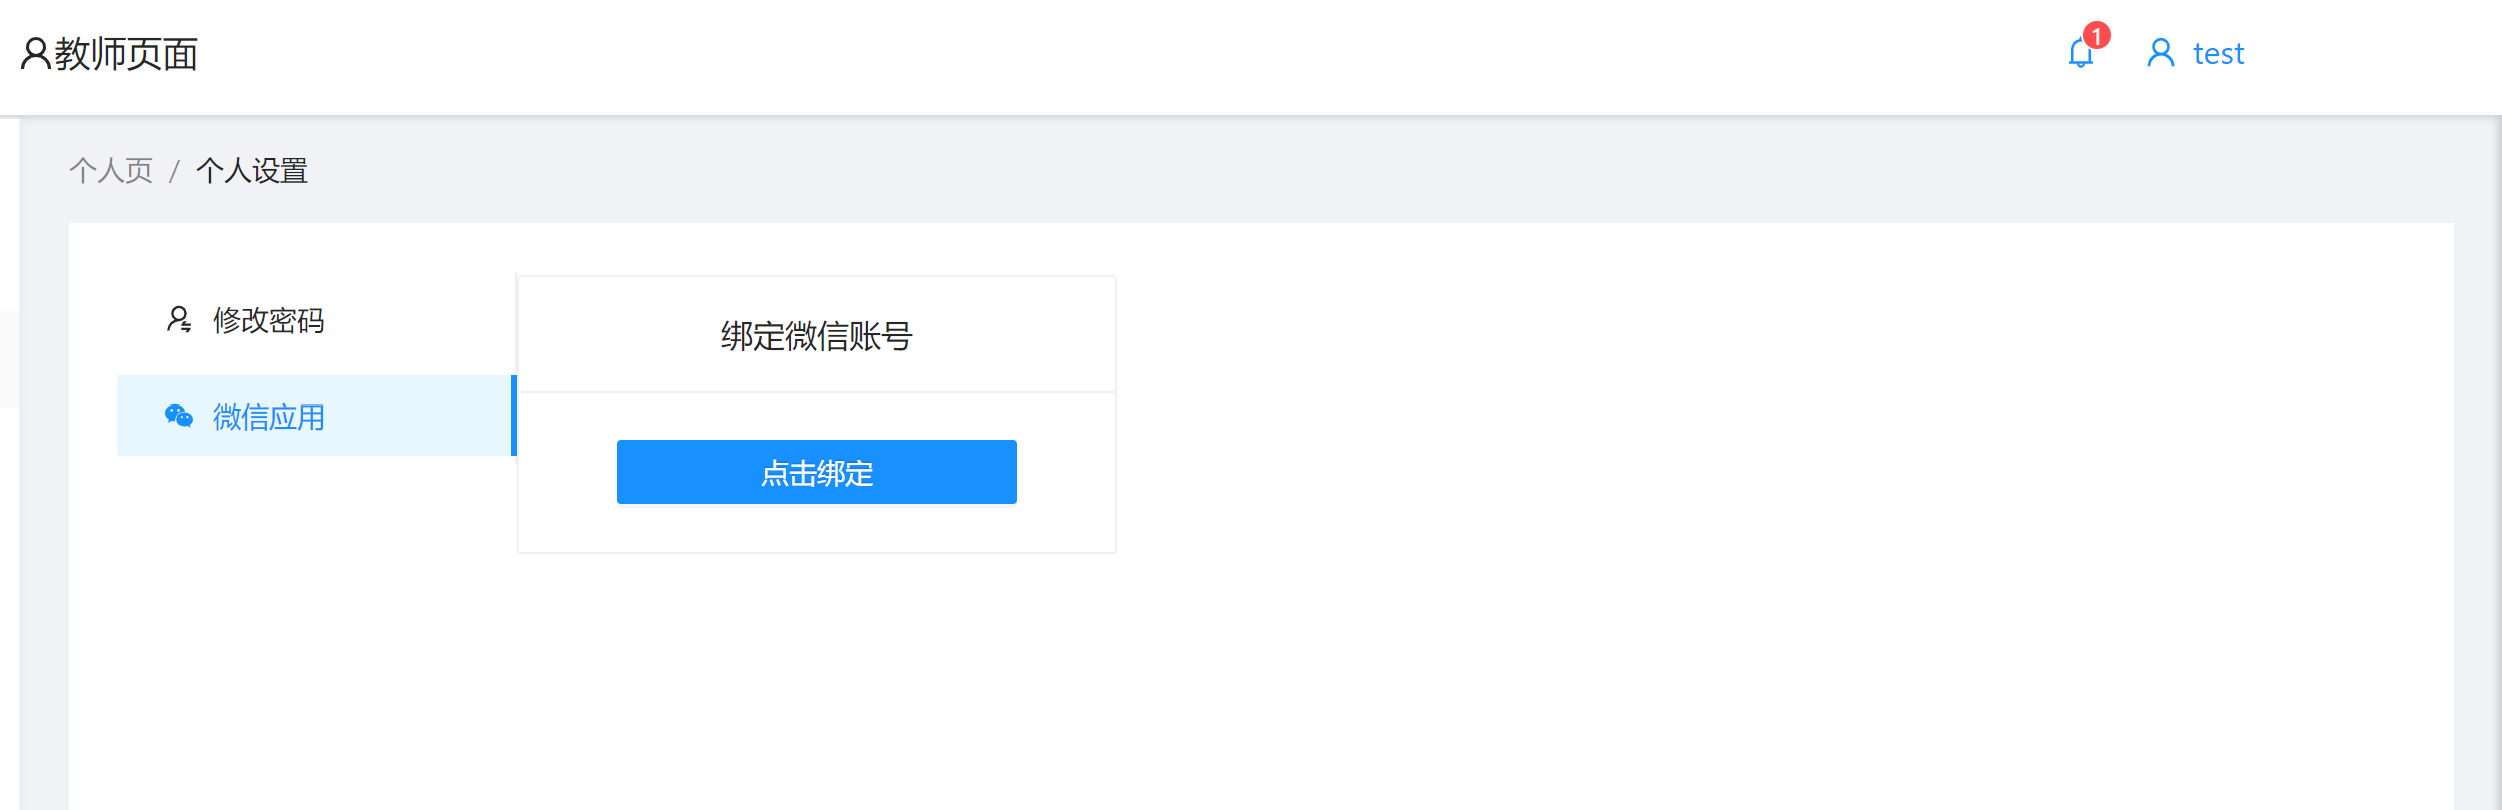
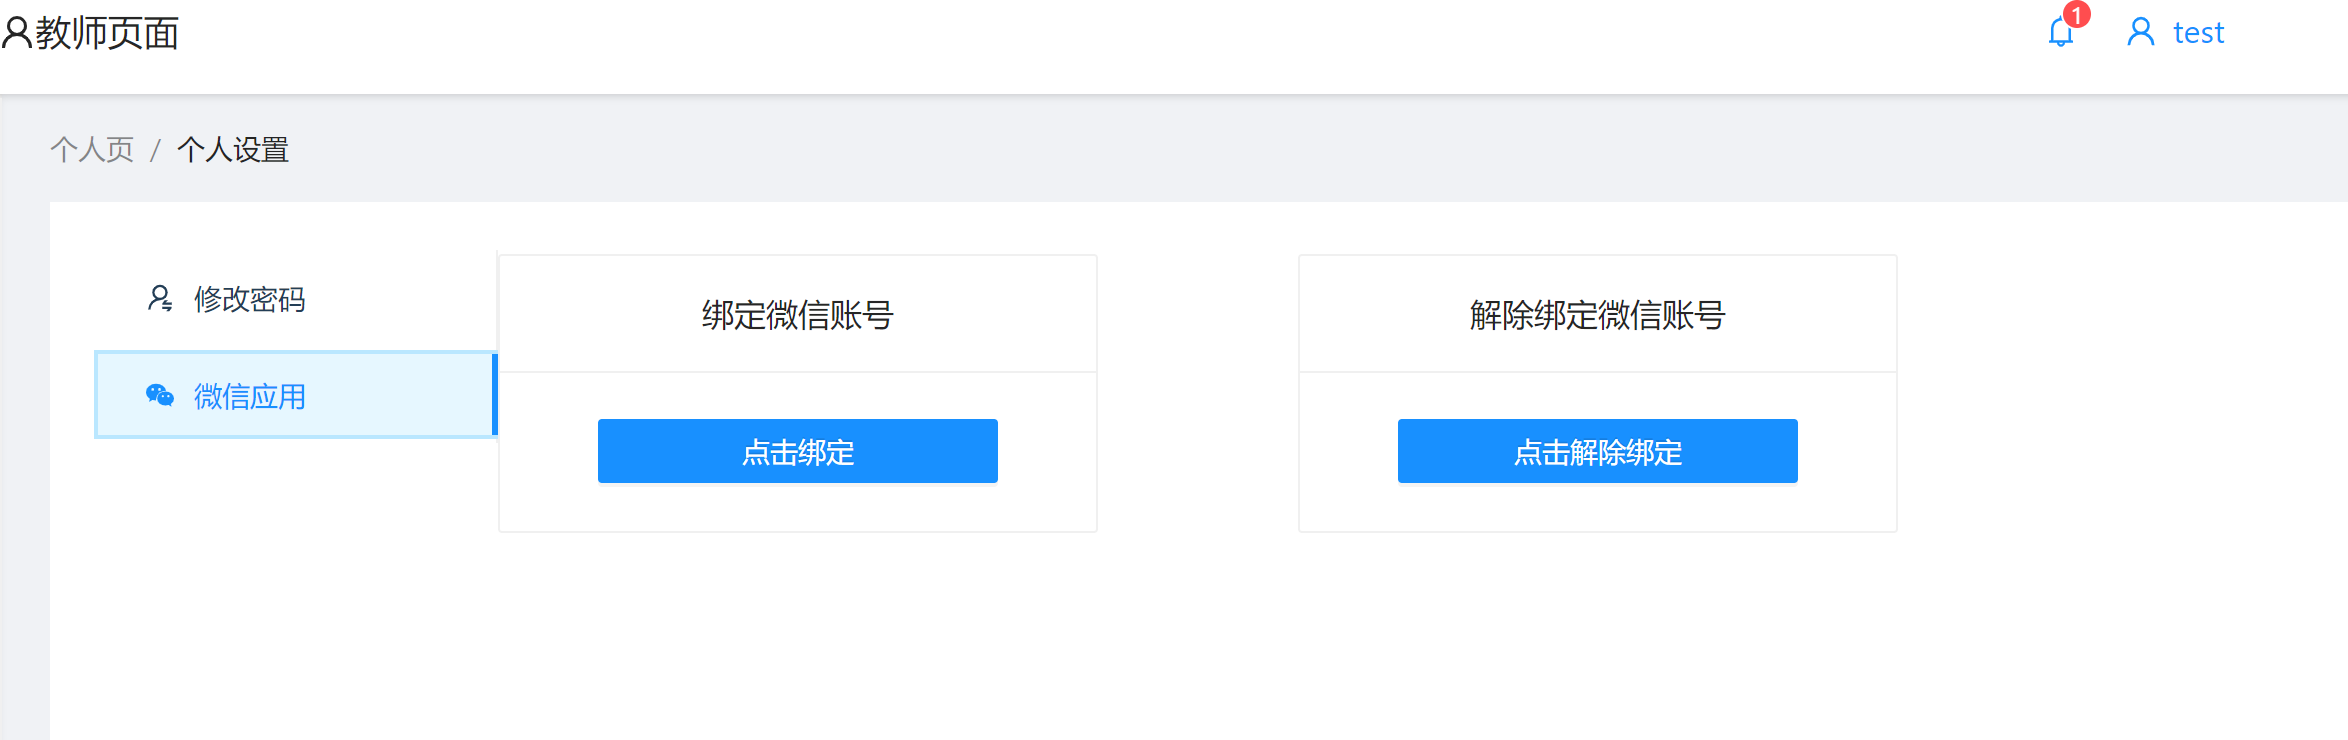
update dubug

diff --git a/docs/tutorial-教师端/课程与分数.md b/docs/tutorial-教师端/课程与分数.md
@@ -43,22 +43,30 @@ excel如图：
 
 进入某课程后，点击右侧**平时成绩**按钮
 
-若弹出“平时分错误”，则是没能正确设置**平时分占比**。
+若弹出“作业次数为0，签到次数为0，无法计算平时分”，则是没有为该课程布置作业和签到所导致的。
 
-![如图所示](./img/20.png)
+![如图所示](./img/29.png)
 
-请在该页面上，正确合理设置平时分占比。（使其不为0即可不报错）
+
+
+同时系统默认该课程的所有学生的**平时分总分**均为**100分**，且不可更改。
+
+
+当你正确布置签到和作业，并设置比重后：
+
+![如图所示](./img/30.png)
 
 
 右侧，可以设置平时分中，作业与签到的占比。当然其中一方可以为0。即平时分可以全由签到决定或者全由作业决定。
 
 注意可以拖动滑动条来设置作业与签到之间的占比情况。
 
+注意：拖动滑动条后，不会实时根据滑动条的状态来动态改变下面总表的状态，即，您需要拖动滑动条后（正确设置比重后），点击**显示总表**按钮，才会根据滑动条的目前占比数值来修改生成下面的总表。
+
 然后点击**显示总表**按钮，即可查看该课程的班级内所有学生的平时分。（由系统自动生成）
 
-该分数由作业和签到两部分决定。比重由您来决定。（而平时分的总分限额，则是由平时分占比决定，例如你决定该门课的平时分比重应该为20%，则我们系统会为您生成一个总分为20分的包含所有学生的一个计算后的平时分，同时带上您对该学生的印象分以供参考，但不计入实际平时分）
+该分数由作业和签到两部分决定。比重由您来决定。（而平时分的总分固定设置为100，方便您后续进行折算提供参考，我们系统会为您生成一个总分为100分的包含所有学生的一个计算后的平时分，同时带上您对该学生的印象分以供参考，但这个印象分不计入实际平时分）
 
-![如图所示](./img/21.png)
 
 
 点击**下载总表**按钮，即可下载其对应Excel文件

diff --git a/docs/tutorial-教师端/个人设置.md b/docs/tutorial-教师端/个人设置.md
@@ -11,8 +11,9 @@ sidebar_position: 8
 - 可以通过原密码进行修改（通常是第一次登录后，利用默认密码尽快修改）
 - 通过微信扫码确认身份后进行修改密码（此操作务必在绑定微信号后进行）
 
-## 绑定微信
+## 绑定与解绑微信
 
 ![如图所示](./img/25.png)
 
-点击按钮，用微信扫码进行绑定。
+点击按钮，用微信扫码进行绑定和解除绑定的操作。
+
